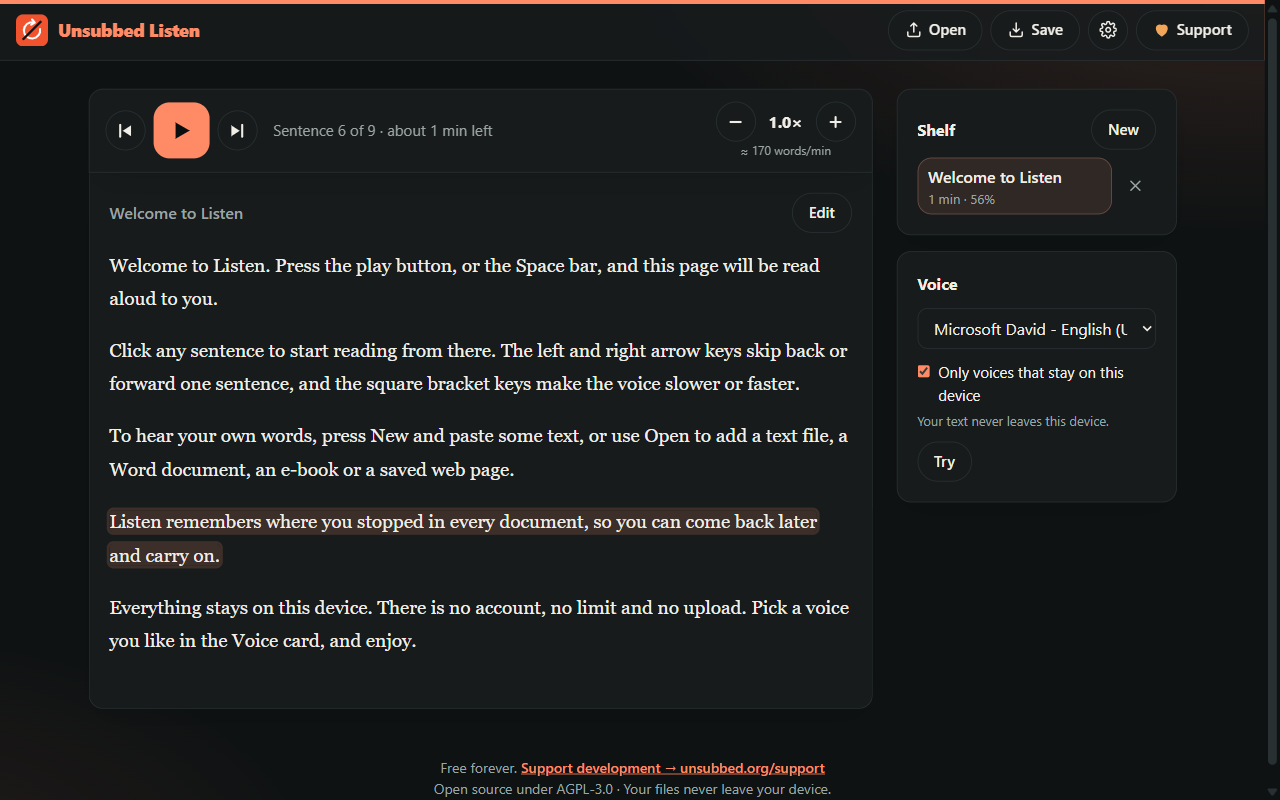
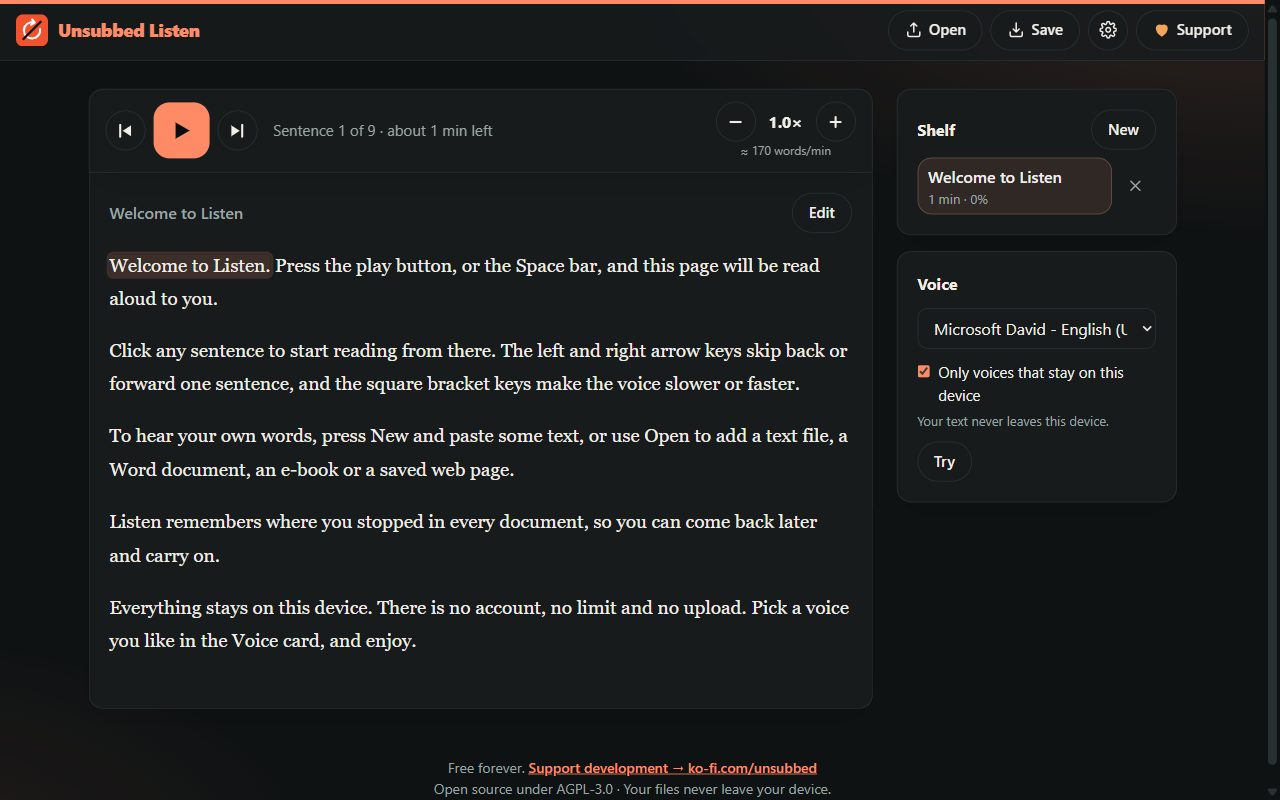
Readable coral, Ko-fi support links, footer disclaimer
Use the kit's --accent-strong for the Play button and checkbox, point every
Support link to ko-fi.com/unsubbed, add the Not affiliated notice and the
@unsubbed_org follow link, and refresh screenshots.

Changed region(s): [[0.0625, 0.625, 0.6562, 0.7188], [0.3438, 0.9375, 0.6562, 0.9688], [0.0625, 0.3125, 0.2188, 0.375]]

diff --git a/kit.css b/kit.css
@@ -28,14 +28,18 @@
     --line: #283032; --accent: var(--app-dark); --accent-ink: #0b0e0f; --danger: #ff8a80;
     color-scheme: dark;
   }
+  :root:not([data-theme="light"]) { --accent-strong: var(--accent); }
 }
 :root[data-theme="dark"] {
   --bg: #0f1213; --surface: #171b1c; --ink: #f1eee8; --muted: #9ba5a3;
   --line: #283032; --accent: var(--app-dark); --accent-ink: #0b0e0f; --danger: #ff8a80;
   color-scheme: dark;
 }
+:root[data-theme="dark"] { --accent-strong: var(--accent); }
 :root {
   --accent-soft: color-mix(in oklab, var(--accent) 12%, var(--surface));
+  /* Readable version of the app color for text and filled buttons (>= 4.5:1). Light mode darkens it. */
+  --accent-strong: color-mix(in oklab, var(--accent) 80%, black);
   --accent-line: color-mix(in oklab, var(--accent) 35%, var(--line));
 }
 
@@ -51,7 +55,7 @@ body {
   background-attachment: fixed;
 }
 :focus-visible { outline: 3px solid color-mix(in oklab, var(--accent) 60%, transparent); outline-offset: 2px; }
-a { color: var(--accent); }
+a { color: var(--accent-strong); }
 ::selection { background: color-mix(in oklab, var(--accent) 28%, transparent); }
 
 /* Header: frosted bar with an app-colored stripe */
@@ -66,13 +70,14 @@ a { color: var(--accent); }
 .u-brand img { width: 32px; height: 32px; flex: none; }
 .u-brand span {
   white-space: nowrap; overflow: hidden; text-overflow: ellipsis;
-  font-weight: 800; font-size: 1.125rem; letter-spacing: -.02em; color: var(--accent);
+  font-weight: 800; font-size: 1.125rem; letter-spacing: -.02em; color: var(--accent-strong);
 }
 
 /* Main + footer */
 main { flex: 1; width: 100%; max-width: 1040px; margin: 0 auto; padding: 1.75rem 1rem; }
 .u-foot { padding: 1.25rem 1rem; text-align: center; color: var(--muted); font-size: .875rem; }
 .u-foot a { font-weight: 600; }
+.u-legal { display: inline-block; margin-top: .25rem; font-size: .75rem; opacity: .8; }
 
 /* Buttons: pills */
 .u-btn {
@@ -84,8 +89,8 @@ main { flex: 1; width: 100%; max-width: 1040px; margin: 0 auto; padding: 1.75rem
 .u-btn:hover { border-color: var(--accent-line); background: var(--accent-soft); }
 .u-btn:active { transform: translateY(1px); }
 .u-btn svg { width: 18px; height: 18px; flex: none; }
-.u-btn.primary { background: var(--accent); border-color: var(--accent); color: var(--accent-ink); box-shadow: 0 6px 16px -6px var(--accent); }
-.u-btn.primary:hover { background: color-mix(in oklab, var(--accent) 88%, black); }
+.u-btn.primary { background: var(--accent-strong); border-color: var(--accent-strong); color: var(--accent-ink); box-shadow: 0 6px 16px -6px var(--accent); }
+.u-btn.primary:hover { background: color-mix(in oklab, var(--accent-strong) 88%, black); }
 .u-btn.support svg { color: var(--brand); fill: var(--brand); }
 .u-btn.danger { color: var(--danger); border-color: currentColor; }
 .u-btn.icon { padding: 0; width: 40px; justify-content: center; }
@@ -106,7 +111,7 @@ textarea { resize: vertical; width: 100%; }
 .u-card.accent { border-color: var(--accent-line); background: linear-gradient(var(--accent-soft), var(--surface) 60%); }
 
 /* Chip: small app-colored label */
-.u-chip { display: inline-flex; align-items: center; gap: .25rem; padding: .125rem .625rem; border-radius: 999px; background: var(--accent-soft); color: var(--accent); font-size: .8125rem; font-weight: 700; }
+.u-chip { display: inline-flex; align-items: center; gap: .25rem; padding: .125rem .625rem; border-radius: 999px; background: var(--accent-soft); color: var(--accent-strong); font-size: .8125rem; font-weight: 700; }
 
 /* Dialog */
 dialog {

diff --git a/index.html b/index.html
@@ -28,7 +28,7 @@
     <button class="u-btn icon" data-settings title="Settings" aria-label="Settings">
       <svg viewBox="0 0 24 24" fill="none" stroke="currentColor" stroke-width="2" stroke-linecap="round"><circle cx="12" cy="12" r="3"/><path d="M19.4 15a1.7 1.7 0 0 0 .3 1.8l.1.1a2 2 0 1 1-2.8 2.8l-.1-.1a1.7 1.7 0 0 0-1.8-.3 1.7 1.7 0 0 0-1 1.5V21a2 2 0 1 1-4 0v-.1a1.7 1.7 0 0 0-1.1-1.5 1.7 1.7 0 0 0-1.8.3l-.1.1a2 2 0 1 1-2.8-2.8l.1-.1a1.7 1.7 0 0 0 .3-1.8 1.7 1.7 0 0 0-1.5-1H3a2 2 0 1 1 0-4h.1a1.7 1.7 0 0 0 1.5-1.1 1.7 1.7 0 0 0-.3-1.8l-.1-.1a2 2 0 1 1 2.8-2.8l.1.1a1.7 1.7 0 0 0 1.8.3H9a1.7 1.7 0 0 0 1-1.5V3a2 2 0 1 1 4 0v.1a1.7 1.7 0 0 0 1 1.5 1.7 1.7 0 0 0 1.8-.3l.1-.1a2 2 0 1 1 2.8 2.8l-.1.1a1.7 1.7 0 0 0-.3 1.8V9a1.7 1.7 0 0 0 1.5 1H21a2 2 0 1 1 0 4h-.1a1.7 1.7 0 0 0-1.5 1Z"/></svg>
     </button>
-    <a class="u-btn support" href="https://unsubbed.org/support" target="_blank" rel="noopener" title="Support development">
+    <a class="u-btn support" href="https://ko-fi.com/unsubbed" target="_blank" rel="noopener" title="Support development">
       <svg viewBox="0 0 24 24" fill="none" stroke="currentColor" stroke-width="2" stroke-linejoin="round"><path d="M12 20s-7-4.4-7-10a4 4 0 0 1 7-2.6A4 4 0 0 1 19 10c0 5.6-7 10-7 10Z"/></svg>
       <span class="label">Support</span>
     </a>
@@ -90,8 +90,9 @@
   </main>
 
   <footer class="u-foot">
-    Free forever. <a href="https://unsubbed.org/support" target="_blank" rel="noopener">Support development → unsubbed.org/support</a>
+    Free forever. <a href="https://ko-fi.com/unsubbed" target="_blank" rel="noopener">Support development → ko-fi.com/unsubbed</a>
     <br>Open source under AGPL-3.0 · Your files never leave your device.
+    <br><small class="u-legal">Speechify is a trademark of its owner. Unsubbed is independent and not affiliated with or endorsed by them.</small>
   </footer>
 
   <dialog id="u-settings">

diff --git a/app.css b/app.css
@@ -14,7 +14,7 @@ main.listen { max-width: 1120px; display: grid; grid-template-columns: minmax(0,
 }
 .play {
   width: 56px; height: 56px; display: grid; place-items: center; border: 0; border-radius: 16px;
-  background: var(--accent); color: var(--accent-ink); cursor: pointer;
+  background: var(--accent-strong); color: var(--accent-ink); cursor: pointer;
 }
 .play svg { width: 26px; height: 26px; }
 .play .i-pause, .play.on .i-play { display: none; }
@@ -70,7 +70,7 @@ main.listen { max-width: 1120px; display: grid; grid-template-columns: minmax(0,
 .u-btn.rm { border-color: transparent; color: var(--muted); }
 #voice { width: 100%; }
 .check { display: flex; align-items: flex-start; gap: .5rem; margin-top: .75rem; font-size: .9375rem; cursor: pointer; }
-.check input { min-height: 0; margin: .25rem 0 0; accent-color: var(--accent); }
+.check input { min-height: 0; margin: .25rem 0 0; accent-color: var(--accent-strong); }
 
 @media (min-width: 900px) {
   main.listen { grid-template-columns: minmax(0, 1fr) 280px; grid-template-rows: auto 1fr; column-gap: 1.5rem; }

diff --git a/README.md b/README.md
@@ -28,7 +28,10 @@ It's a plain web page. Download this repository and open `index.html`, or serve 
 
 ---
 
-Free forever. Support development → [unsubbed.org/support](https://unsubbed.org/support)
+Free forever. Support development → [ko-fi.com/unsubbed](https://ko-fi.com/unsubbed) · New app every day → [@unsubbed_org on X](https://x.com/unsubbed_org)
+
+## Not affiliated
+Speechify is a trademark of its owner. Unsubbed is an independent, clean-room project and is not affiliated with, sponsored by or endorsed by them. We mention the name only to describe what this app is an alternative to.
 
 ## License & contributing
 Unsubbed apps are licensed under the [GNU AGPL-3.0](LICENSE). If you share a modified version or run it as a service, you must publish your changes under the same license.

diff --git a/CONTRIBUTING.md b/CONTRIBUTING.md
@@ -24,4 +24,4 @@ New to pull requests? Opening an **issue** that describes your idea is welcome t
 - No paid bug bounties are offered.
 
 ## Support the project
-Unsubbed apps are free forever. If one saves you a subscription, consider supporting development at **unsubbed.org/support**.
+Unsubbed apps are free forever. If one saves you a subscription, consider supporting development at **[ko-fi.com/unsubbed](https://ko-fi.com/unsubbed)**.
